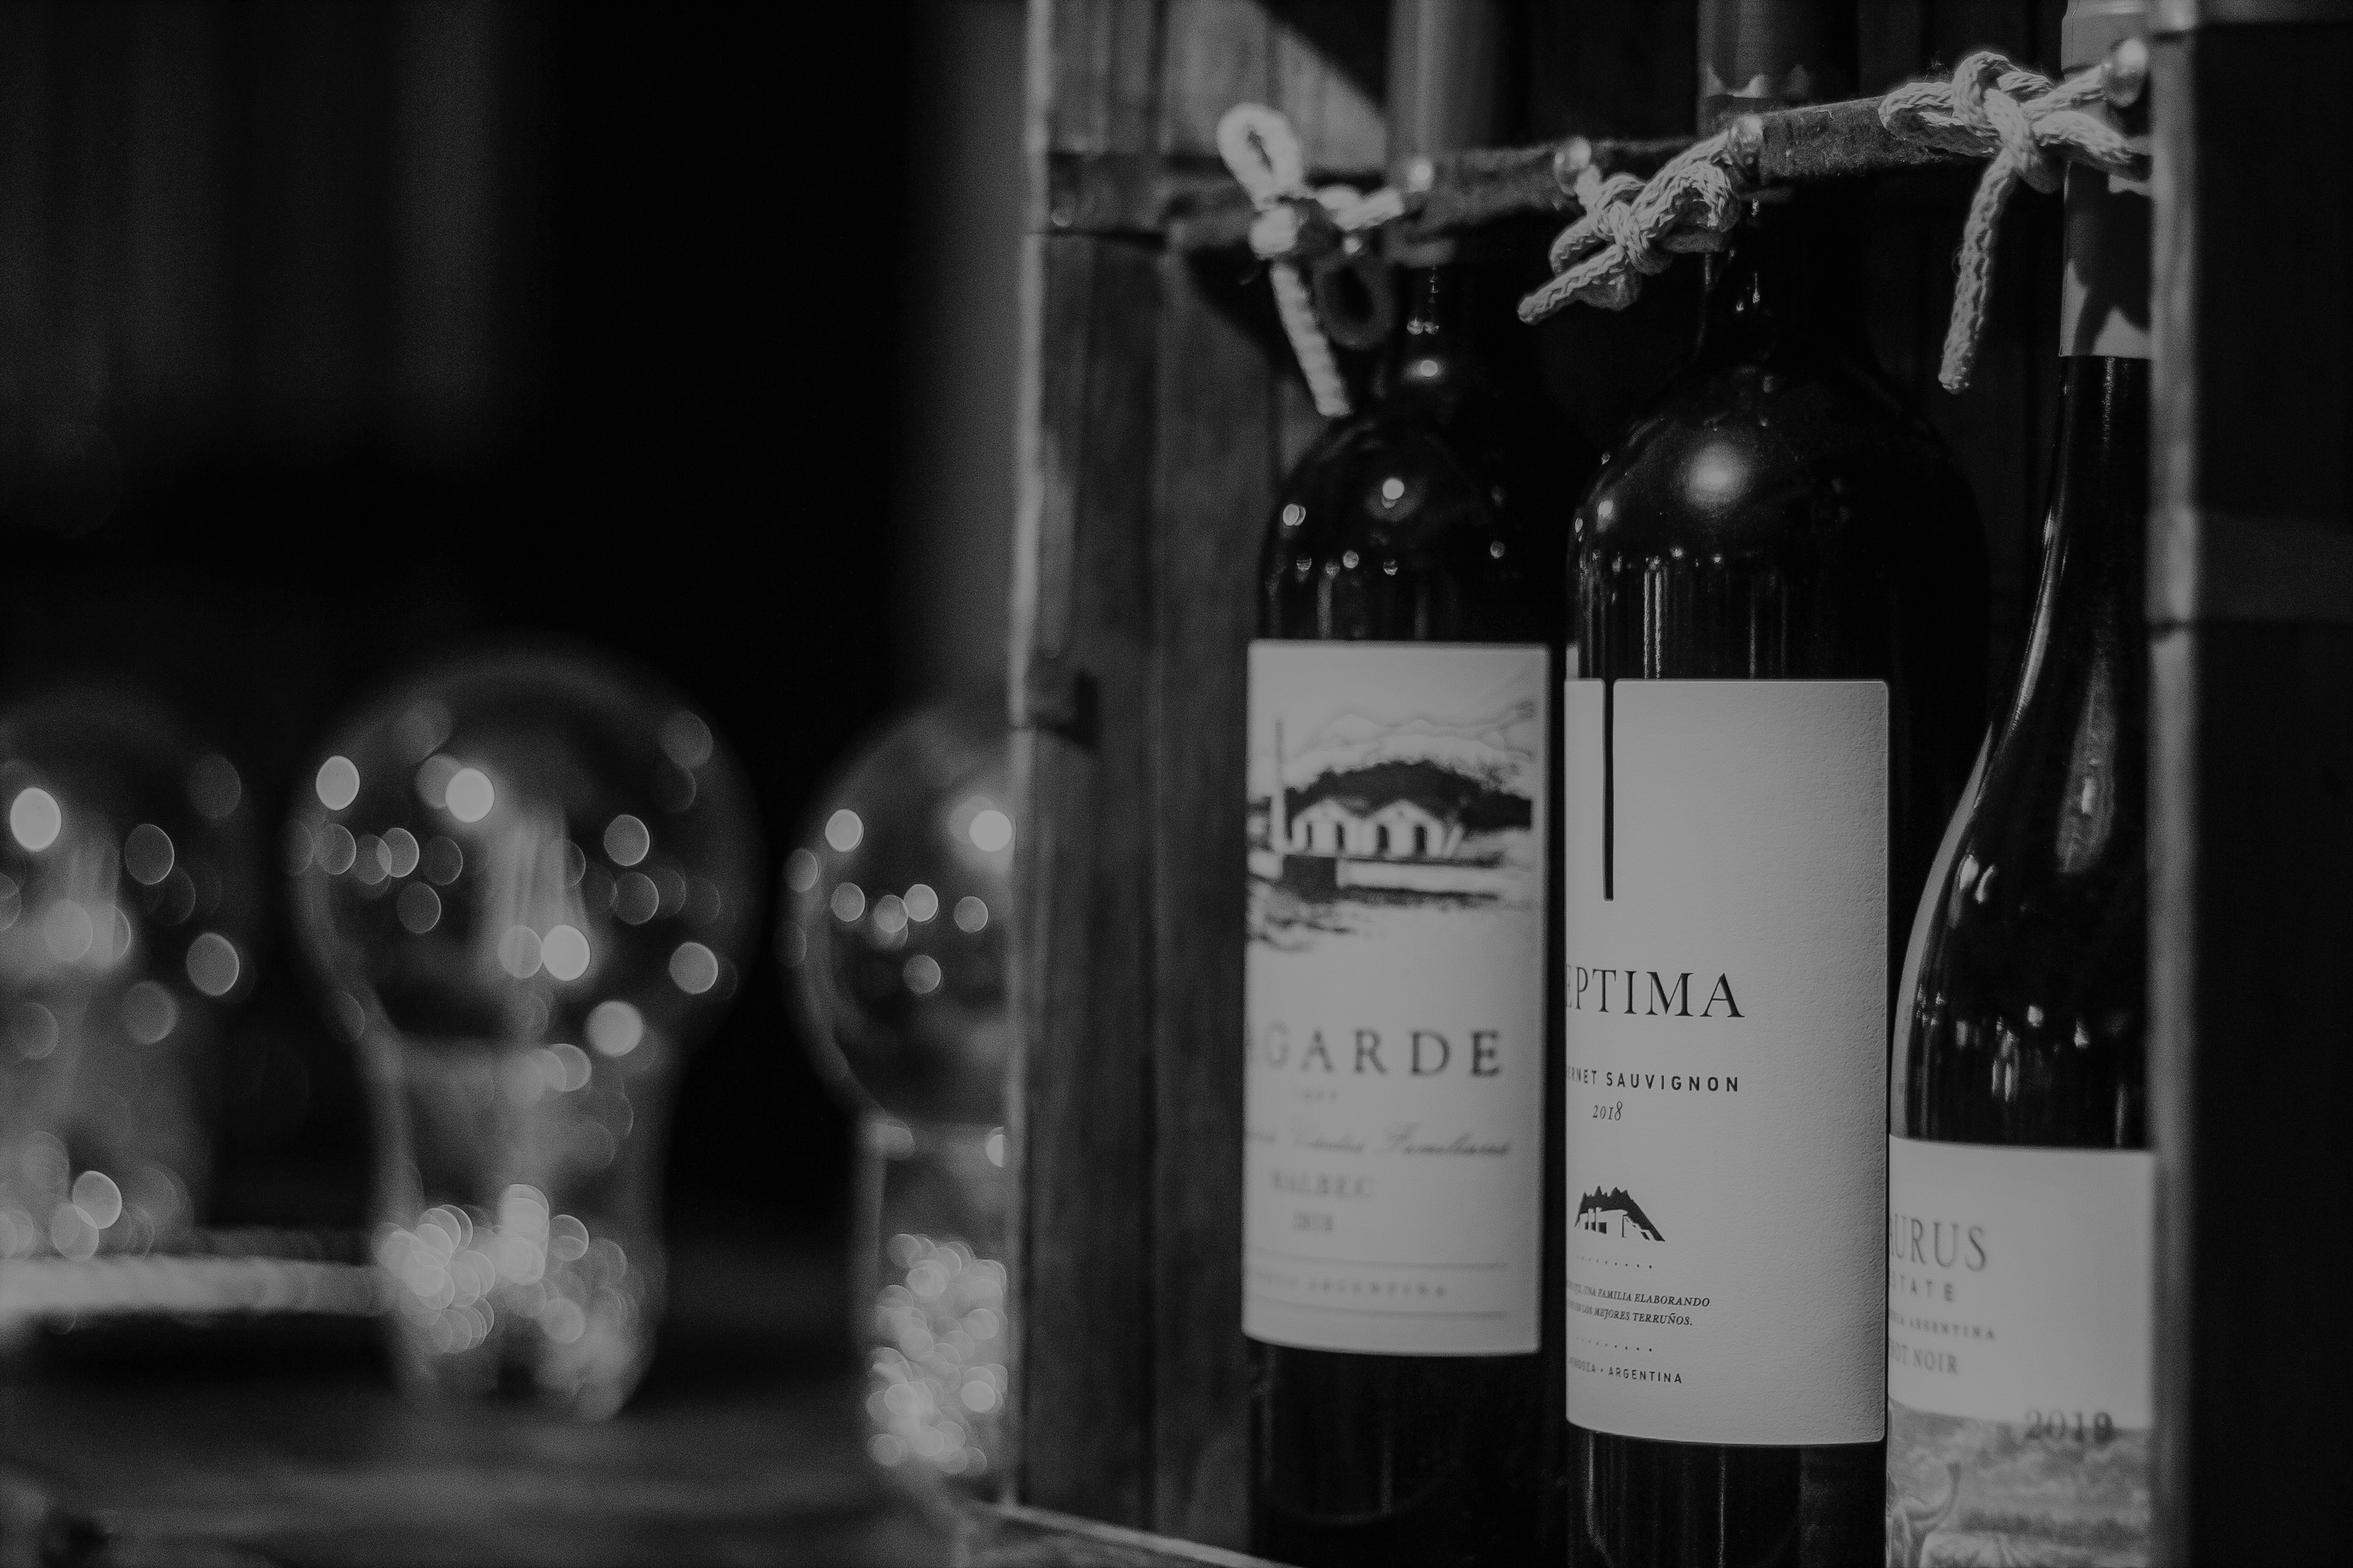
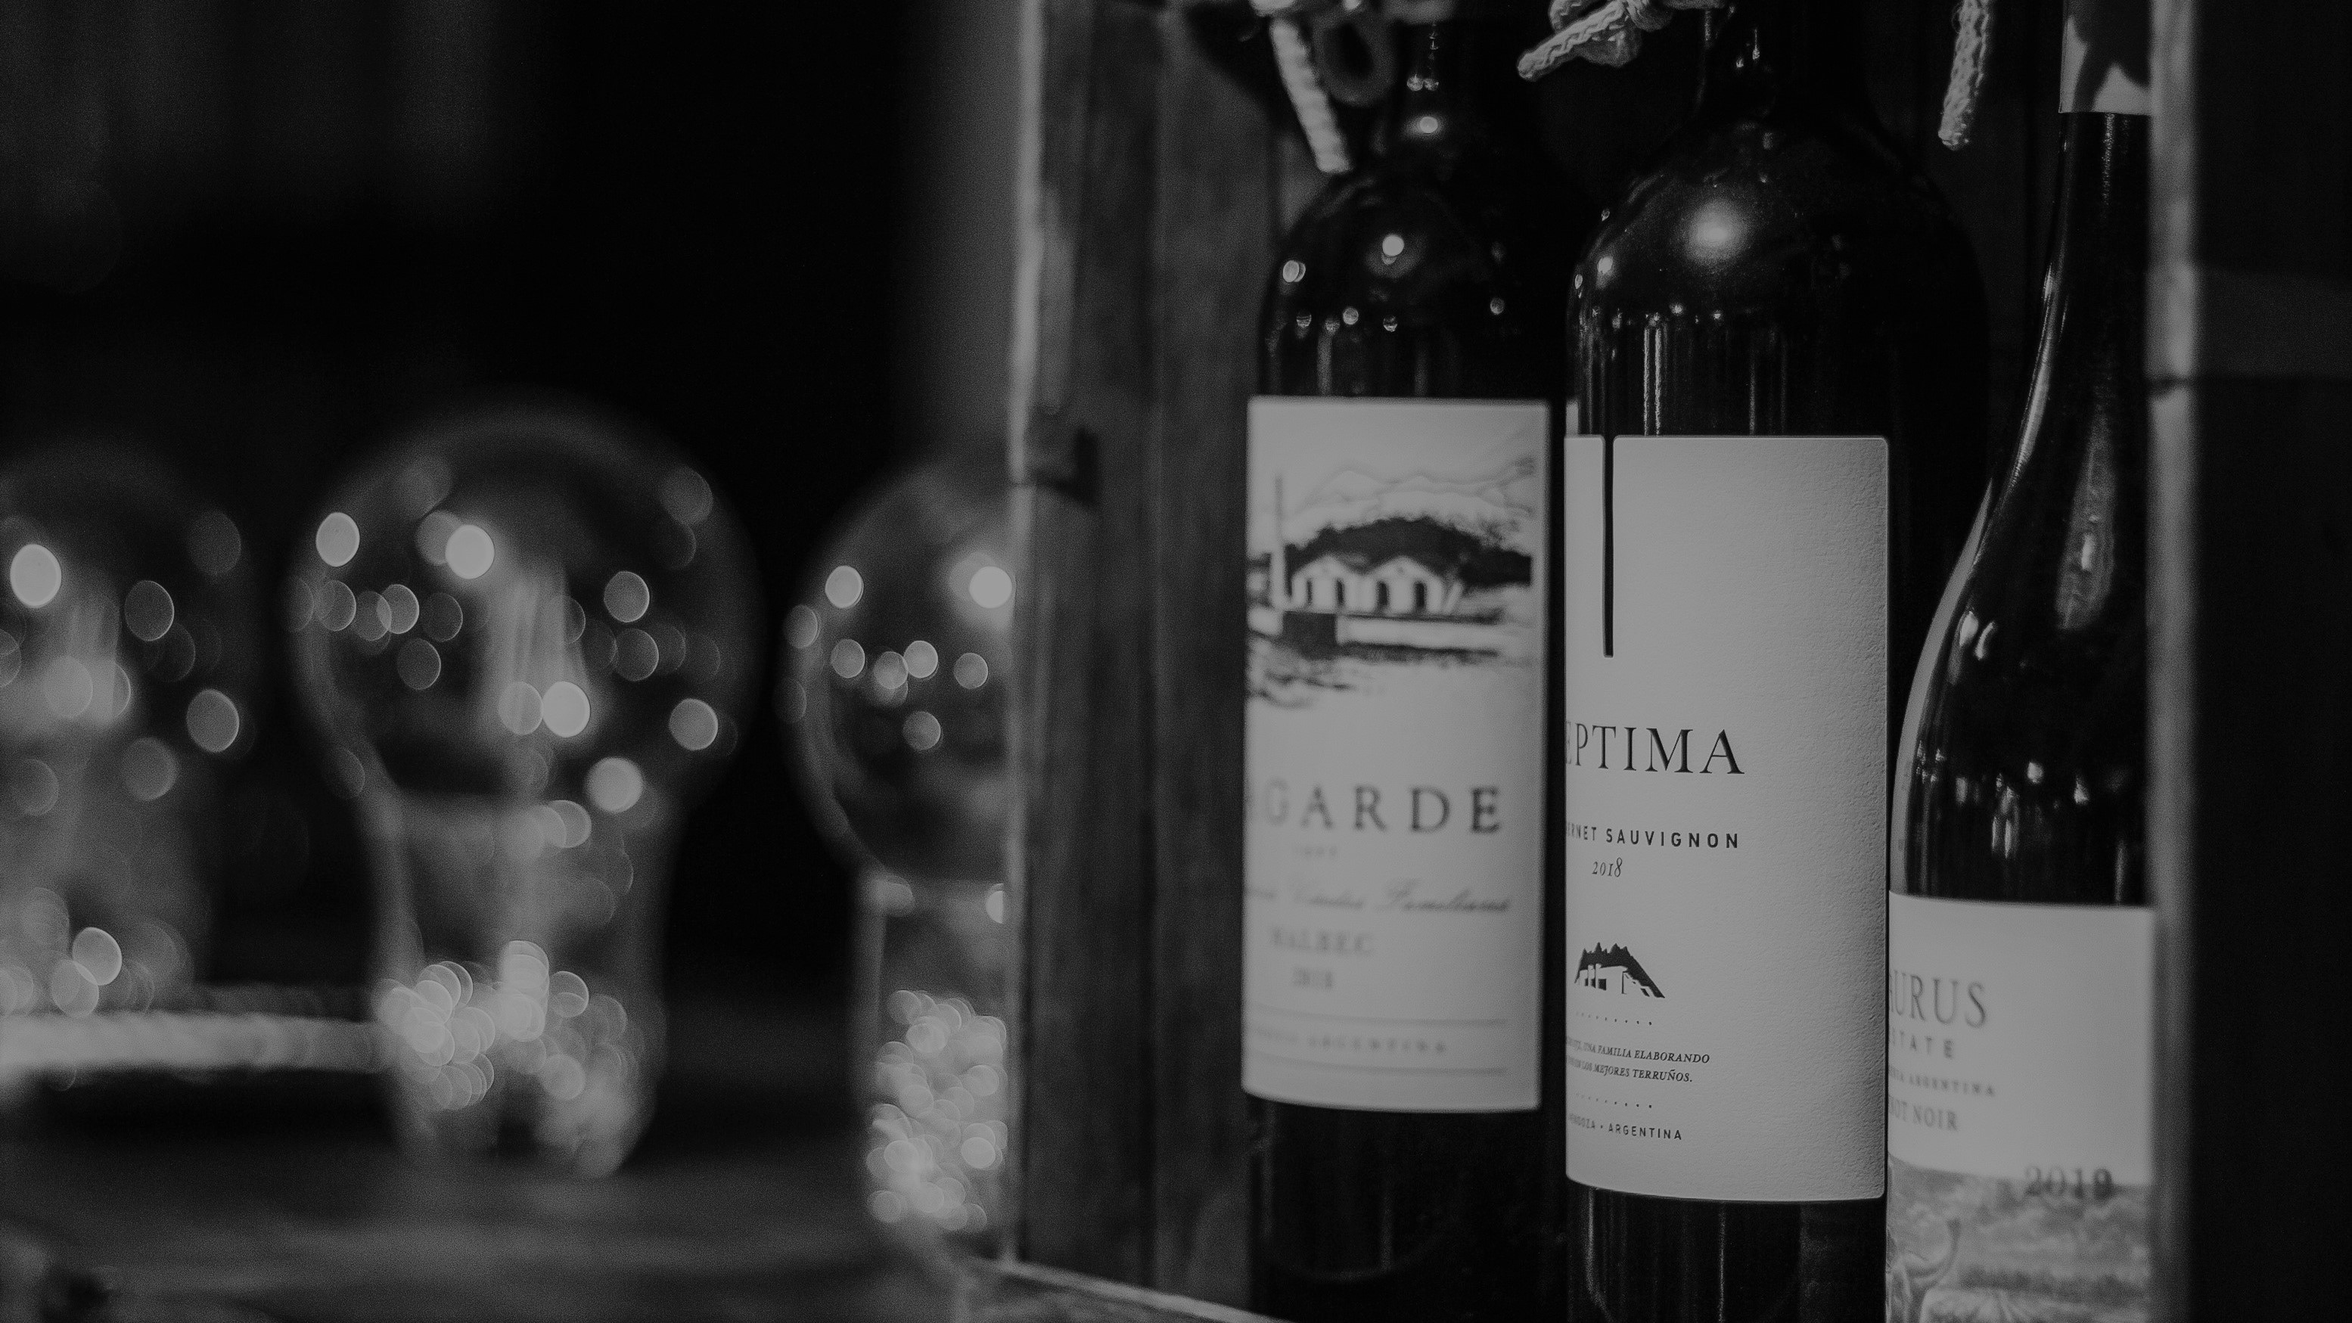
Se modifico el carrusel,se retiraron las diferentes imagenes de inicio en cada seccion, se agrego contenido en forma de texto y se trabajo los estilos scss

diff --git a/blog.html b/blog.html
@@ -20,7 +20,8 @@
     <header>
         <div>
             <nav class="navPrimario topnav topnav a ">
-                <a href="index.html"><img src="imagenes/LogoVino.png" alt="LogoVino" width="60" height="60" class="header__logo" /></a>
+                <a href="index.html"><img src="imagenes/LogoVino.png" alt="LogoVino" width="60" height="60"
+                        class="header__logo" /></a>
                 <ul class="nav justify-content-center">
                     <li class="nav-item">
                         <a class="nav-link nav__link--hover " href="index.html">Inicio</a>
@@ -39,16 +40,25 @@
                     </li>
                 </ul>
             </nav>
-            
+
         </div>
     </header>
     <main>
         <!-- blog -->
         <section id="blog.html" class="border">
             <div>
-                <img src="imagenes/imagblog.jpg" width="100%">
                 <h2>BLOG </h2>
-                <h1>Informacion sobre vinos</h1>
+            </div>
+            <div class="centrarTexto" >
+                <h1 >Informacion sobre vinos</h1>
+                <p>Lorem ipsum, dolor sit amet consectetur adipisicing elit. Nisi unde praesentium magni dolores qui eos
+                    quam repellendus, vitae, debitis nam consectetur ab dolorum et mollitia ratione error, voluptates
+                    necessitatibus quidem animi aliquid quasi voluptas reprehenderit! Fuga asperiores hic optio quaerat
+                    labore soluta impedit! Blanditiis error modi similique eveniet fugiat sequi.</p>
+                    <p>Lorem ipsum, dolor sit amet consectetur adipisicing elit. Nisi unde praesentium magni dolores qui eos
+                        quam repellendus, vitae, debitis nam consectetur ab dolorum et mollitia ratione error, voluptates
+                        necessitatibus quidem animi aliquid quasi voluptas reprehenderit! Fuga asperiores hic optio quaerat
+                        labore soluta impedit! Blanditiis error modi similique eveniet fugiat sequi.</p>
             </div>
             <div class="grid-container box_uno">
                 <div class="grid-item1">
@@ -104,7 +114,6 @@
                     </div>
                 </div>
             </div>
-
         </section>
     </main>
 
@@ -112,7 +121,8 @@
     <footer>
         <div>
             <nav class=" topnav a">
-                <a href="index.html"><img src="imagenes/LogoVino.png" alt="LogoVino" width="60" height="60" class="header__logo" /></a>
+                <a href="index.html"><img src="imagenes/LogoVino.png" alt="LogoVino" width="60" height="60"
+                        class="header__logo" /></a>
                 <ul class="nav justify-content-center">
                     <li class="nav-item">
                         <a class="nav-link nav__link--hover" href="index.html">Inicio</a>
@@ -136,7 +146,7 @@
                     <a href="#"><img src="imagenes/logowhat.png" width="40" height="40" /></a>
                 </div>
             </nav>
-            
+
         </div>
     </footer>
 </body>

diff --git a/tienda.html b/tienda.html
@@ -20,7 +20,8 @@
     <header>
         <div>
             <nav class="navPrimario topnav topnav a ">
-                <a href="index.html"><img src="imagenes/LogoVino.png" alt="LogoVino" width="60" height="60" class="header__logo" /></a>
+                <a href="index.html"><img src="imagenes/LogoVino.png" alt="LogoVino" width="60" height="60"
+                        class="header__logo" /></a>
                 <ul class="nav justify-content-center">
                     <li class="nav-item">
                         <a class="nav-link nav__link--hover " href="index.html">Inicio</a>
@@ -39,7 +40,7 @@
                     </li>
                 </ul>
             </nav>
-            
+
         </div>
     </header>
     <main>
@@ -47,7 +48,17 @@
         <section id="tienda.html" class="border">
             <div>
                 <h2>PRODUCTOS </h2>
-                <h1>Vinos argentinos</h1>
+            </div>
+            <div class="centrarTexto" >
+                <h1 >Vinos argentinos</h1>
+                <p>Lorem ipsum, dolor sit amet consectetur adipisicing elit. Nisi unde praesentium magni dolores qui eos
+                    quam repellendus, vitae, debitis nam consectetur ab dolorum et mollitia ratione error, voluptates
+                    necessitatibus quidem animi aliquid quasi voluptas reprehenderit! Fuga asperiores hic optio quaerat
+                    labore soluta impedit! Blanditiis error modi similique eveniet fugiat sequi.</p>
+                    <p>Lorem ipsum, dolor sit amet consectetur adipisicing elit. Nisi unde praesentium magni dolores qui eos
+                        quam repellendus, vitae, debitis nam consectetur ab dolorum et mollitia ratione error, voluptates
+                        necessitatibus quidem animi aliquid quasi voluptas reprehenderit! Fuga asperiores hic optio quaerat
+                        labore soluta impedit! Blanditiis error modi similique eveniet fugiat sequi.</p>
             </div>
             <div class="padre-flex-prod">
                 <article>
@@ -145,7 +156,8 @@
     <footer>
         <div>
             <nav class=" topnav a">
-                <a href="index.html"><img src="imagenes/LogoVino.png" alt="LogoVino" width="60" height="60" class="header__logo" /></a>
+                <a href="index.html"><img src="imagenes/LogoVino.png" alt="LogoVino" width="60" height="60"
+                        class="header__logo" /></a>
                 <ul class="nav justify-content-center">
                     <li class="nav-item">
                         <a class="nav-link nav__link--hover" href="index.html">Inicio</a>
@@ -169,7 +181,7 @@
                     <a href="#"><img src="imagenes/logowhat.png" width="40" height="40" /></a>
                 </div>
             </nav>
-            
+
         </div>
     </footer>
 </body>

diff --git a/contacto.html b/contacto.html
@@ -46,7 +46,7 @@
         <div>
             <h2>PONETE EN CONTACTO CON NOSOTROS </h2>
         </div>
-        <div class="textoFormulario">
+        <div class="textoFormulario centrarTexto">
             <form action="">
 
                 <div>
@@ -64,7 +64,7 @@
                 <div><strong>Acepta terminos y condiciones</strong></div>
                 <input type="checkbox" name="Acepta" value="1" />
 
-                <select class="form-select" aria-label="Default select example">
+                <select class="form-select centrarTexto" aria-label="Default select example">
                     <option selected>Tipo de consulta</option>
                     <option value="1">Información</option>
                     <option value="2">Reclamos</option>
@@ -72,7 +72,7 @@
                 </select>
 
                 <div>
-                    <textarea name="message" id="message" cols="40" rows="10" required
+                    <textarea name="message" id="message" cols="60" rows="10" required
                         style="resize: none"></textarea>
                     <label for="message">Comentario</label>
                 </div>

diff --git a/index.html b/index.html
@@ -58,9 +58,9 @@
             </div>
             <!-- Hero -->
             <section id="index.html">
-                <div class="carousel-inner">
+                <div class="carousel-inner" >
                     <div class="carousel-item active">
-                        <img src="imagenes/carousel1.jpg" class="d-block w-100" alt="carousel1">
+                        <img src="imagenes/carousel1.jpg" class="d-block w-100" height="50%" alt="carousel1">
                         <div class="carousel-caption d-none d-md-block hero-txt">
                             <h1>VINOS ARGENTINOS</h1>
 

diff --git a/scss/estilos.scss b/scss/estilos.scss
@@ -52,7 +52,7 @@ div {
     padding-right: 12px;
     padding-bottom: 5px;
     padding-left: 5px;
-    h1 {
+    h2 {
         /* Encabezados */
         color: white;
         background-color: #8b1535;
@@ -95,7 +95,6 @@ a {
         font-family: Arial, Helvetica, sans-serif;        
     }
 }         
-
 div {
     /*texto formulario*/
     font-style: normal;

diff --git a/nosotros.html b/nosotros.html
@@ -48,7 +48,6 @@
         <!-- Nosotros -->
         <section id="nosotros.html" class="imagen imagen--nueva">
             <div>
-                <img src="imagenes/imagenosotros.jpg" width="100%">
                 <h2>NOSOTROS </h2>
             </div>
             <div class="animate__animated animate__fadeIn">
